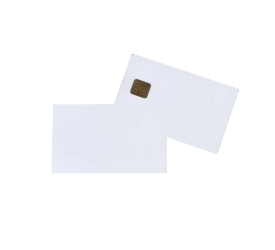
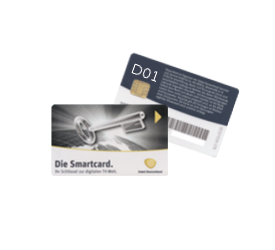
Add G02/G09/NC+

Changed region(s): [[0.1745, 0.196, 0.8727, 0.728]]

diff --git a/usr/lib/enigma2/python/Plugins/Extensions/OscamSmartcard/plugin.py b/usr/lib/enigma2/python/Plugins/Extensions/OscamSmartcard/plugin.py
@@ -154,6 +154,8 @@ cardlist = [
 	("D01", _("Kabel Deutschl. D01")),
 	("D02", _("Kabel Deutschl. D02")),
 	("D09", _("Kabel Deutschl. D09")),
+	("KDG0x", _("Kabel Deutschl. G02/G09")),
+	("smartHD", _("NC+ SmartHD+")),
 	("MTV", _("MTV")),
 	("tivu", _("Tivusat")),
 	("JSC", _("JSC-sports - Viaccess")),
@@ -667,6 +669,9 @@ class OscamSmartcard(ConfigListScreen, Screen):
 				system('update-rc.d softcam  defaults ' + null)
 				system('update-rc.d cardserver defaults ' + null)
 				print plugin +'create camstart files  ... done'
+				config.plugins.OscamSmartcard.oscambinary.setValue("no_binaryupdate")
+				configfile.save()
+				
 
 			if imagename =='Openatv':
 				print plugin +'create camstart files for OpenATV..'
@@ -728,13 +733,13 @@ class OscamSmartcard(ConfigListScreen, Screen):
 		if answer is True:
 			system('killall -9 oscam_oscamsmartcard ' + null)
 			system('rm /usr/bin/oscam_oscamsmartcard' + null)
-			system('rm -f /usr/keys/oscam.*')
-			system('rm -f /etc/tuxbox/config/oscam.*')
-			system('rm /etc/init.d/softcam /etc/init.d/softcam.None /etc/init.d/softcam.OscamSmartcard')
-			system('rm /etc/init.d/cardserver /etc/init.d/cardserver.None /etc/init.d/cardserver.OscamSmartcard')
-			system('rm -f /etc/oscamsmartcard.emu')
-			system('rm -rf /tmp/data')
-			system('rm -f /tmp/upgrade.log')
+			system('rm -f /usr/keys/oscam.*' + null)
+			system('rm -f /etc/tuxbox/config/oscam.*' + null)
+			system('rm /etc/init.d/softcam /etc/init.d/softcam.None /etc/init.d/softcam.OscamSmartcard' + null)
+			system('rm /etc/init.d/cardserver /etc/init.d/cardserver.None /etc/init.d/cardserver.OscamSmartcard' + null)
+			system('rm -f /etc/oscamsmartcard.emu' + null)
+			system('rm -rf /tmp/data' + null)
+			system('rm -f /tmp/upgrade.log' + null)
 			self.close()
 		else:
 			return
